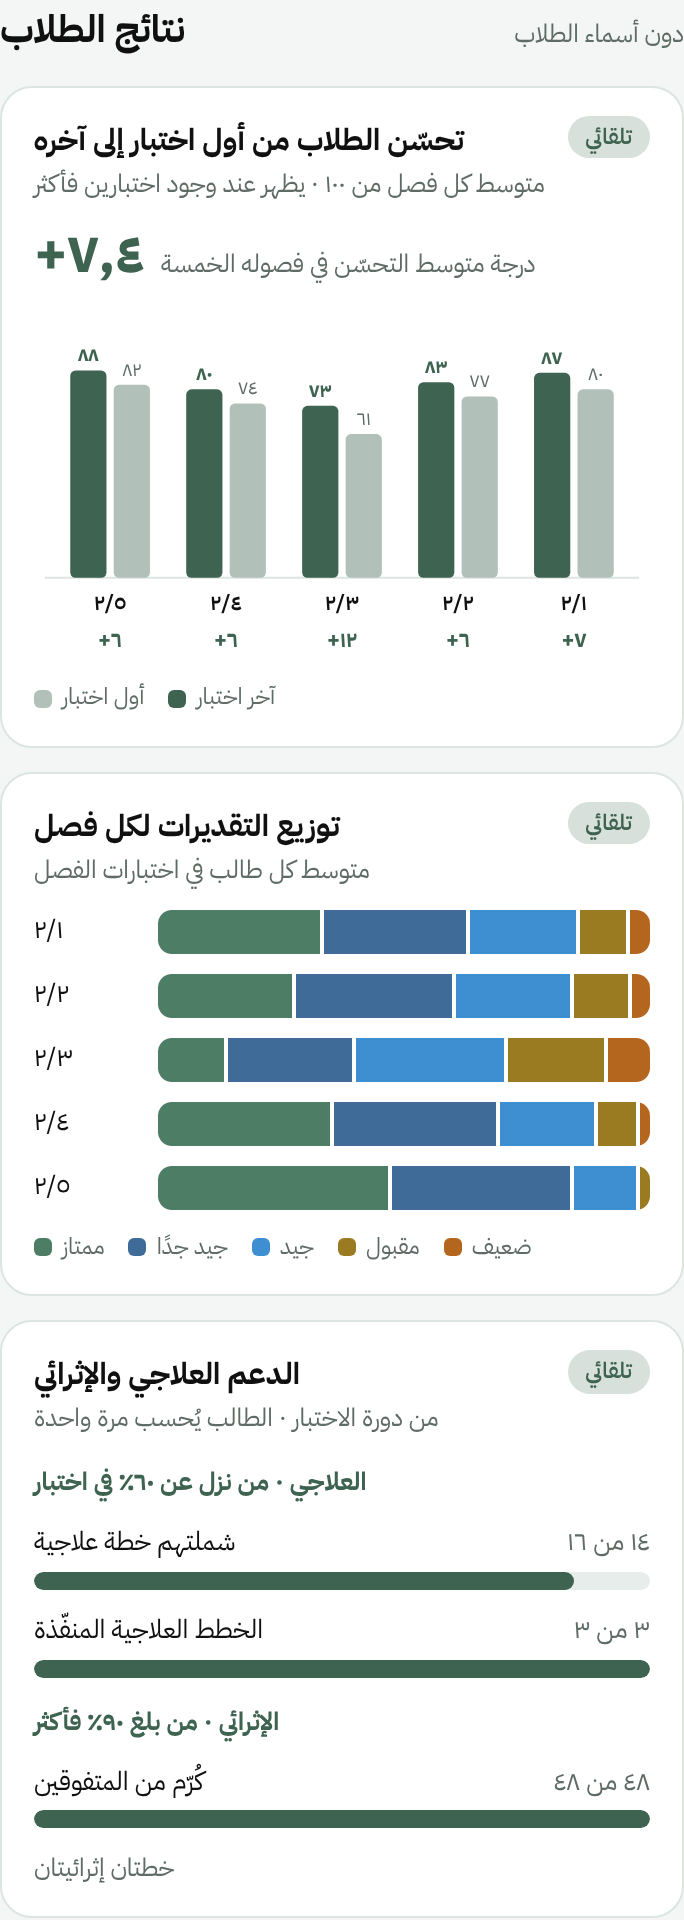
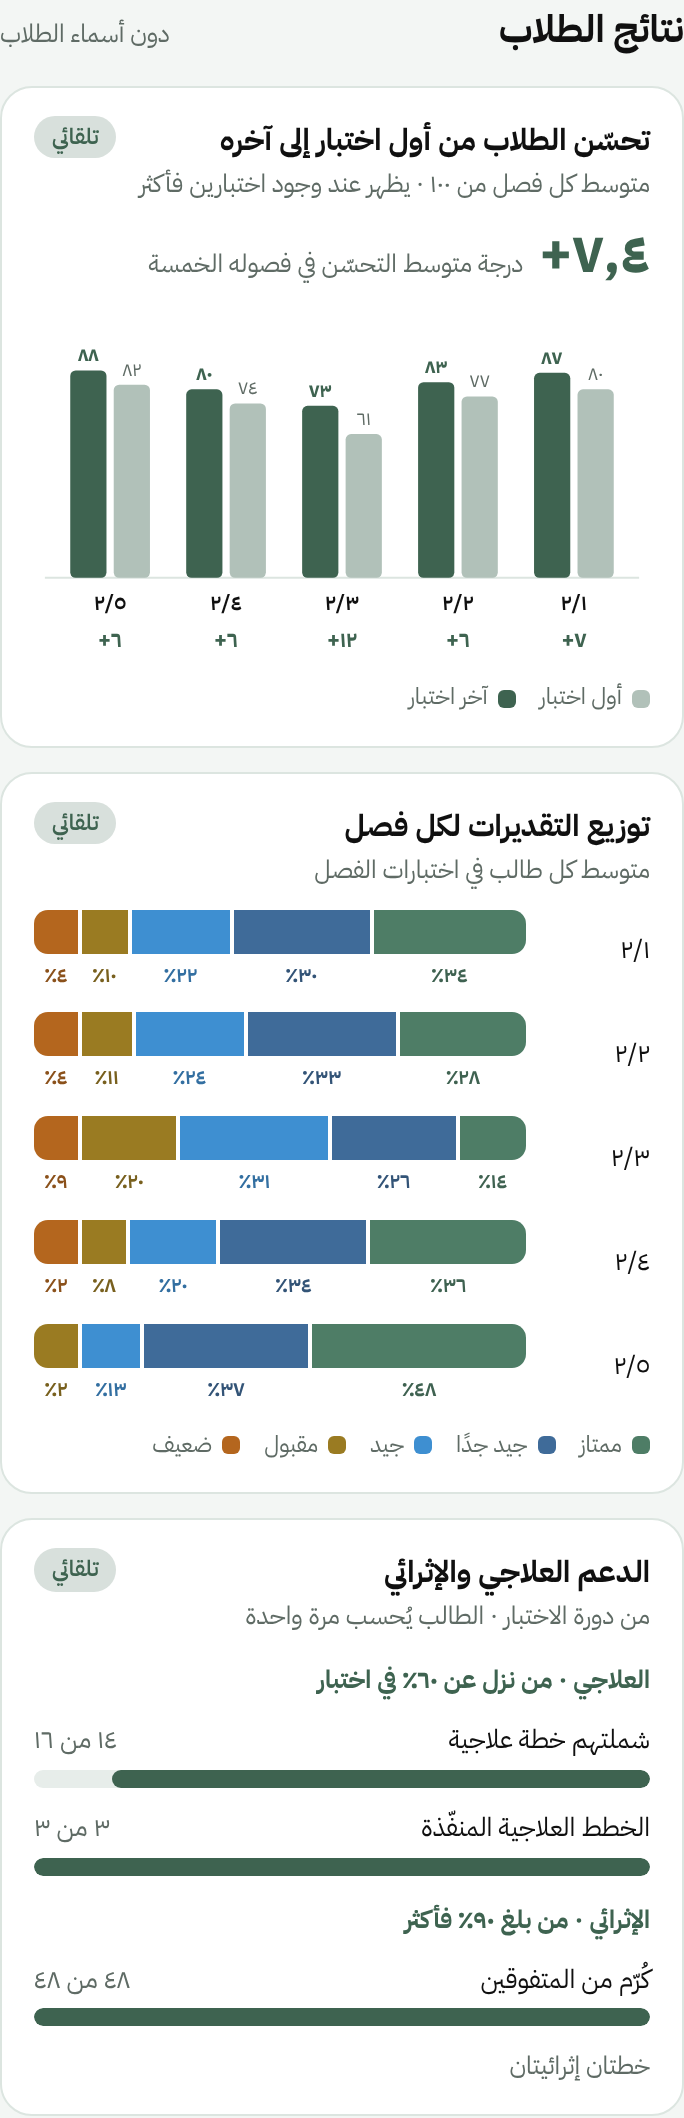
ملف المعلم الرقمي: نسبة كل تقدير تحت لونه في توزيع التقديرات لكل فصل
Claude-Session: https://claude.ai/code/session_01QzqWfYFyUodUKxUMNwYvZ2

diff --git a/docs/teacher-digital-file/prototype.html b/docs/teacher-digital-file/prototype.html
@@ -200,6 +200,14 @@ section.sec { display: grid; gap: 12px; scroll-margin-top: 64px; }
 .stack i { display: block; height: 100%; }
 /* ألوان التقديرات الثابتة نفسها في بطاقة الدرجات (b5 ممتاز … b1 ضعيف) */
 .stack i[class^="b"], .keys i[class^="b"] { background: var(--c); }
+.dist { display: flex; gap: 2px; }
+.dist > span { flex-grow: 1; flex-shrink: 1; flex-basis: 0; min-width: 22px; display: grid; gap: 3px; justify-items: center; }
+.dist i { display: block; width: 100%; height: 22px; background: var(--c); }
+.dist > span:first-child i { border-start-start-radius: 7px; border-end-start-radius: 7px; }
+.dist > span:last-child i { border-start-end-radius: 7px; border-end-end-radius: 7px; }
+.dist small { font-size: 10.5px; color: color-mix(in srgb, var(--c), var(--ink) 25%); font-weight: 600; white-space: nowrap; }
+.cls { align-items: start; }
+.cls > span { line-height: 22px; }
 .grp { font-size: 12.5px; font-weight: 700; color: var(--deep); margin-top: 2px; }
 .keys { display: flex; flex-wrap: wrap; gap: 4px 12px; font-size: 11.5px; color: var(--muted); }
 .keys span { display: inline-flex; align-items: center; gap: 5px; }
@@ -559,11 +567,11 @@ section.sec { display: grid; gap: 12px; scroll-margin-top: 64px; }
     <div class="grid2">
       <div class="card">
         <div class="card-h"><div><h3>توزيع التقديرات لكل فصل</h3><p class="sub">متوسط كل طالب في اختبارات الفصل</p></div><span class="src auto">تلقائي</span></div>
-        <div class="cls"><span>٢/١</span><div class="stack"><i class="b5" style="flex:34"></i><i class="b4" style="flex:30"></i><i class="b3" style="flex:22"></i><i class="b2" style="flex:10"></i><i class="b1" style="flex:4"></i></div></div>
-        <div class="cls"><span>٢/٢</span><div class="stack"><i class="b5" style="flex:28"></i><i class="b4" style="flex:33"></i><i class="b3" style="flex:24"></i><i class="b2" style="flex:11"></i><i class="b1" style="flex:4"></i></div></div>
-        <div class="cls"><span>٢/٣</span><div class="stack"><i class="b5" style="flex:14"></i><i class="b4" style="flex:26"></i><i class="b3" style="flex:31"></i><i class="b2" style="flex:20"></i><i class="b1" style="flex:9"></i></div></div>
-        <div class="cls"><span>٢/٤</span><div class="stack"><i class="b5" style="flex:36"></i><i class="b4" style="flex:34"></i><i class="b3" style="flex:20"></i><i class="b2" style="flex:8"></i><i class="b1" style="flex:2"></i></div></div>
-        <div class="cls"><span>٢/٥</span><div class="stack"><i class="b5" style="flex:48"></i><i class="b4" style="flex:37"></i><i class="b3" style="flex:13"></i><i class="b2" style="flex:2"></i></div></div>
+        <div class="cls"><span>٢/١</span><div class="dist"><span class="b5" style="flex:34"><i></i><small class="num">٣٤٪</small></span><span class="b4" style="flex:30"><i></i><small class="num">٣٠٪</small></span><span class="b3" style="flex:22"><i></i><small class="num">٢٢٪</small></span><span class="b2" style="flex:10"><i></i><small class="num">١٠٪</small></span><span class="b1" style="flex:4"><i></i><small class="num">٤٪</small></span></div></div>
+        <div class="cls"><span>٢/٢</span><div class="dist"><span class="b5" style="flex:28"><i></i><small class="num">٢٨٪</small></span><span class="b4" style="flex:33"><i></i><small class="num">٣٣٪</small></span><span class="b3" style="flex:24"><i></i><small class="num">٢٤٪</small></span><span class="b2" style="flex:11"><i></i><small class="num">١١٪</small></span><span class="b1" style="flex:4"><i></i><small class="num">٤٪</small></span></div></div>
+        <div class="cls"><span>٢/٣</span><div class="dist"><span class="b5" style="flex:14"><i></i><small class="num">١٤٪</small></span><span class="b4" style="flex:26"><i></i><small class="num">٢٦٪</small></span><span class="b3" style="flex:31"><i></i><small class="num">٣١٪</small></span><span class="b2" style="flex:20"><i></i><small class="num">٢٠٪</small></span><span class="b1" style="flex:9"><i></i><small class="num">٩٪</small></span></div></div>
+        <div class="cls"><span>٢/٤</span><div class="dist"><span class="b5" style="flex:36"><i></i><small class="num">٣٦٪</small></span><span class="b4" style="flex:34"><i></i><small class="num">٣٤٪</small></span><span class="b3" style="flex:20"><i></i><small class="num">٢٠٪</small></span><span class="b2" style="flex:8"><i></i><small class="num">٨٪</small></span><span class="b1" style="flex:2"><i></i><small class="num">٢٪</small></span></div></div>
+        <div class="cls"><span>٢/٥</span><div class="dist"><span class="b5" style="flex:48"><i></i><small class="num">٤٨٪</small></span><span class="b4" style="flex:37"><i></i><small class="num">٣٧٪</small></span><span class="b3" style="flex:13"><i></i><small class="num">١٣٪</small></span><span class="b2" style="flex:2"><i></i><small class="num">٢٪</small></span></div></div>
         <div class="keys"><span><i class="b5"></i>ممتاز</span><span><i class="b4"></i>جيد جدًا</span><span><i class="b3"></i>جيد</span><span><i class="b2"></i>مقبول</span><span><i class="b1"></i>ضعيف</span></div>
       </div>
       <div class="card">
